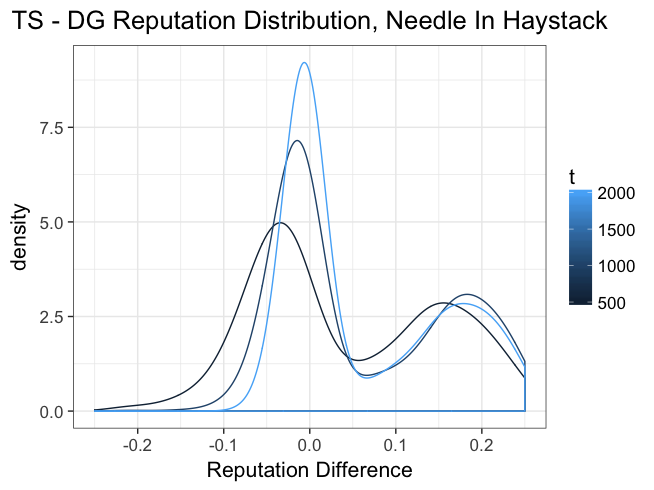
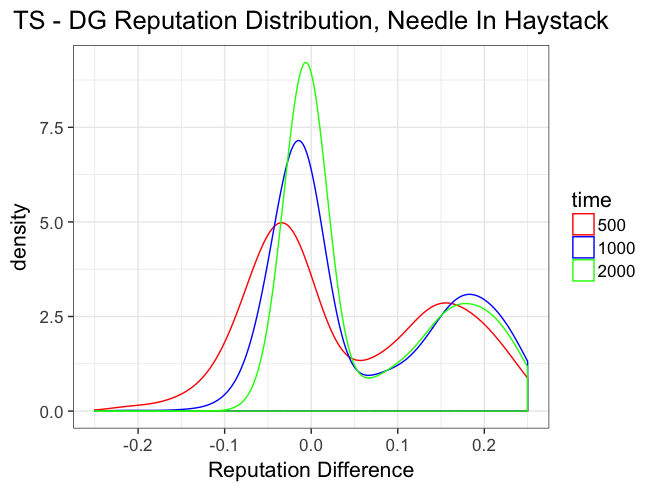
revisited revision

diff --git a/paper/content/revisited.tex b/paper/content/revisited.tex
@@ -5,12 +5,8 @@
 
 A natural question to ask is why we had to introduce the relative reputation proportion instead of simply using the mean to understand the results. For instance, the following would have been a natural conjecture:
 \begin{conjecture}\label{conj:mean-trajectories}
-\begin{enumerate}
-\item To understand which algorithm would win in the competition game we could compare the mean reputation score of the two algorithms at $T_0$.\swcomment{should leave a pointer to the trajectories plot}
-\item Given a sufficiently large $T_0$, if one algorithm's mean reputation trajectory lies above another, then the first algorithm prevails in the competition game.
-\end{enumerate}
+\item Given a sufficiently large $T_0$, if one algorithm's mean reputation trajectory lies above another (for instance, Figure  \ref{prelim_means}), then the first algorithm prevails in the competition game.
 \end{conjecture}
-\swcomment{why enumerate? sounds like two conjectures, but they are not. first part seems redundant}
 
 However, we find a more nuanced picture. 
 
@@ -20,25 +16,24 @@ Conjecture~\ref{conj:mean-trajectories} is false. Mean reputation trajectories d
 \end{finding}
 
 \begin{figure}[ht]
-\caption{Distribution of reputation scores for Needle-in-Haystack at $t=500$ (smoothed using a kernel density estimate)}
 \includegraphics[scale=0.35]{figures/rep_distribution_nih}
+\caption{Distribution of reputation scores for Needle-in-Haystack at $t=500$ (smoothed using a kernel density estimate)}
 \label{rep_dist_nih}
 %\caption*{\tiny{The plots contain a kernel density estimate of the reputation distribution at $t = 500$}}
 \end{figure}
 
 \begin{figure}[ht]
-\caption{Distribution of reputation difference $\TS-\DG$ for the Needle-in-Haystack (smoothed via a kernel density estimate)}
 \includegraphics[scale=0.35]{figures/ts_dg_rep_diff_nih}
+\caption{Distribution of reputation difference $\TS-\DG$ for the Needle-in-Haystack at $t = 500, 1000, 2000$(smoothed via a kernel density estimate)}
 \label{ts_dg_rep_diff_nih}
 %\caption*{\tiny{The plots contain a kernel density estimate of the difference in reputation between $\TS$ and $\DG$ across $t$}}
 \end{figure}
 
 To see what could go wrong, consider how an algorithm's reputation score is distributed at a particular time. That is, consider the empirical distribution of this score over different \MRVs.\swcomment{not sure what this means. over the randomness of \MRVs only? you mean marginal distribution?} For concreteness, we consider the needle-in-haystack instance at time $t=500$ (Figure \ref{rep_dist_nih}) since the intuition as to why the mean may be misleading is clearest on this instance (though the same result holds across the instances).
 
-We see that the ``naive" algorithms $\DG$ and $\DEG$ have a bi-modal reputation distribution, whereas $\TS$ does not. The reason is that for this MAB instance,\swcomment{what is ``this''?} $\DG$ either finds the best arm and sticks to it, or gets stuck on the bad arms. This leads to two cases: $\DG$ either does slightly better than $\TS$ or where $\TS$ does substantially better than $\DG$.
+We see that the ``naive" algorithms $\DG$ and $\DEG$ have a bi-modal reputation distribution, whereas $\TS$ does not. The reason is that \gaedit{for the Needle In Haystack instance}, $\DG$ either finds the best arm and sticks to it, or gets stuck on the bad arms. This leads to two cases: $\DG$ either does slightly better than $\TS$ or where $\TS$ does substantially better than $\DG$.
 
 However, the mean reputation trajectory \swedit{may fail to capture} this complexity since it simply takes average over different realizations of \MRVs. This may be inadequate for explaining the outcome of the duopoly game, given that the latter is determined by a simple comparison between the firm's reputation scores. Further, consider the difference in reputation scores (\emph{reputation difference}) between \TS and \DG on a particular \MRV. Let's plot the empirical distribution of the reputation difference (over the \MRVs) at a particular time point. Figure~\ref{ts_dg_rep_diff_nih} shows such plots for several time points.
-\swcomment{I don't quite understand Figure~\ref{ts_dg_rep_diff_nih}. there are three curves, so I assume two black ones are for the two algos? If so, could you explain}
 We observe that the distribution is skewed to the right, precisely due to the fact that $\DG$ either does slightly better than $\TS$ or does substantially worse. This means that the mean is not a good measure of the central tendency, or typical value, of the reputation difference distribution and overstates how well an advanced exploration algorithm (that will eventually find the best arm) should do in competition compared to a naive algorithm that may never find the best arm.
 
 
